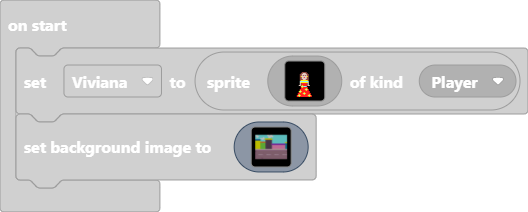
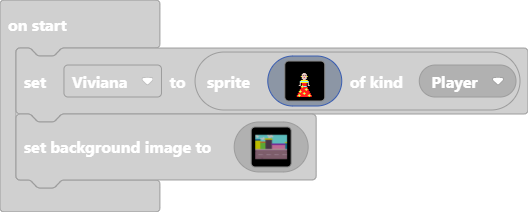
air color

Changed region(s): [[0.4848, 0.2547, 0.6667, 0.5094], [0.4242, 0.566, 0.6061, 0.8208]]

diff --git a/main.ts b/main.ts
@@ -6,20 +6,20 @@ let Viviana = sprites.create(img`
     ................................
     ................................
     ................................
-    .............eeeee..............
-    ............eedddee.............
-    ...........eedddddee............
-    ...........eedededee............
-    ...........e5ddddd5e............
-    ...........eedd2ddee............
-    ...........eedddddee............
-    ...........eeedddeee............
-    ...........e5555555e............
+    .............fffff..............
+    ............ffdddff.............
+    ...........ffdddddff............
+    ...........ffdededff............
+    ...........f5ddddd5f............
+    ...........ffdd2ddff............
+    ...........ffdddddff............
+    ...........fffdddfff............
+    ...........f5555555f............
     ...........999999999............
     ...........d5555555d............
-    ...........de22222ed............
-    ...........de22222ed............
-    ..........dde52222edd...........
+    ...........df22222fd............
+    ...........df22222fd............
+    ..........ddf52222fdd...........
     ............595999..............
     ............2522222.............
     ............2222252.............
